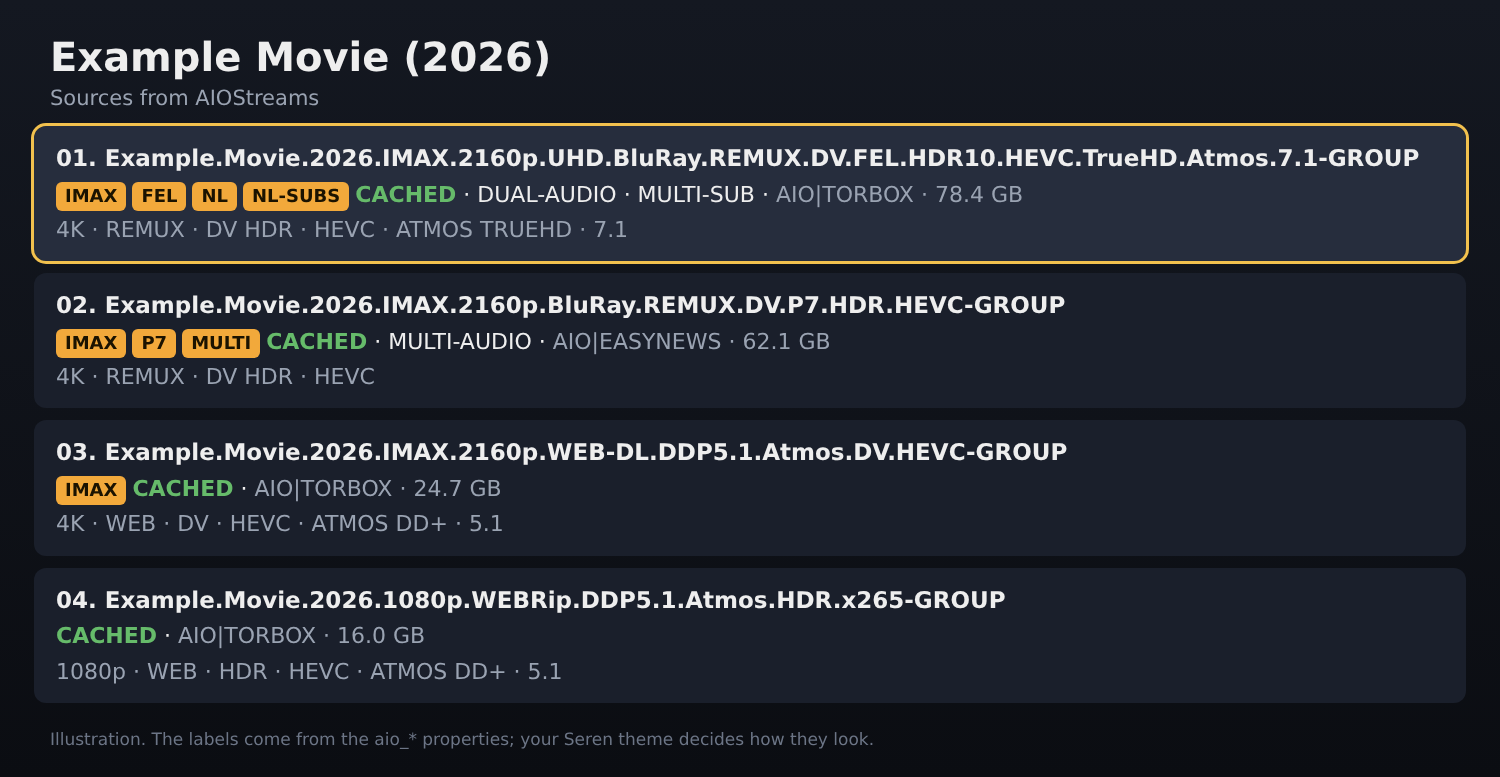
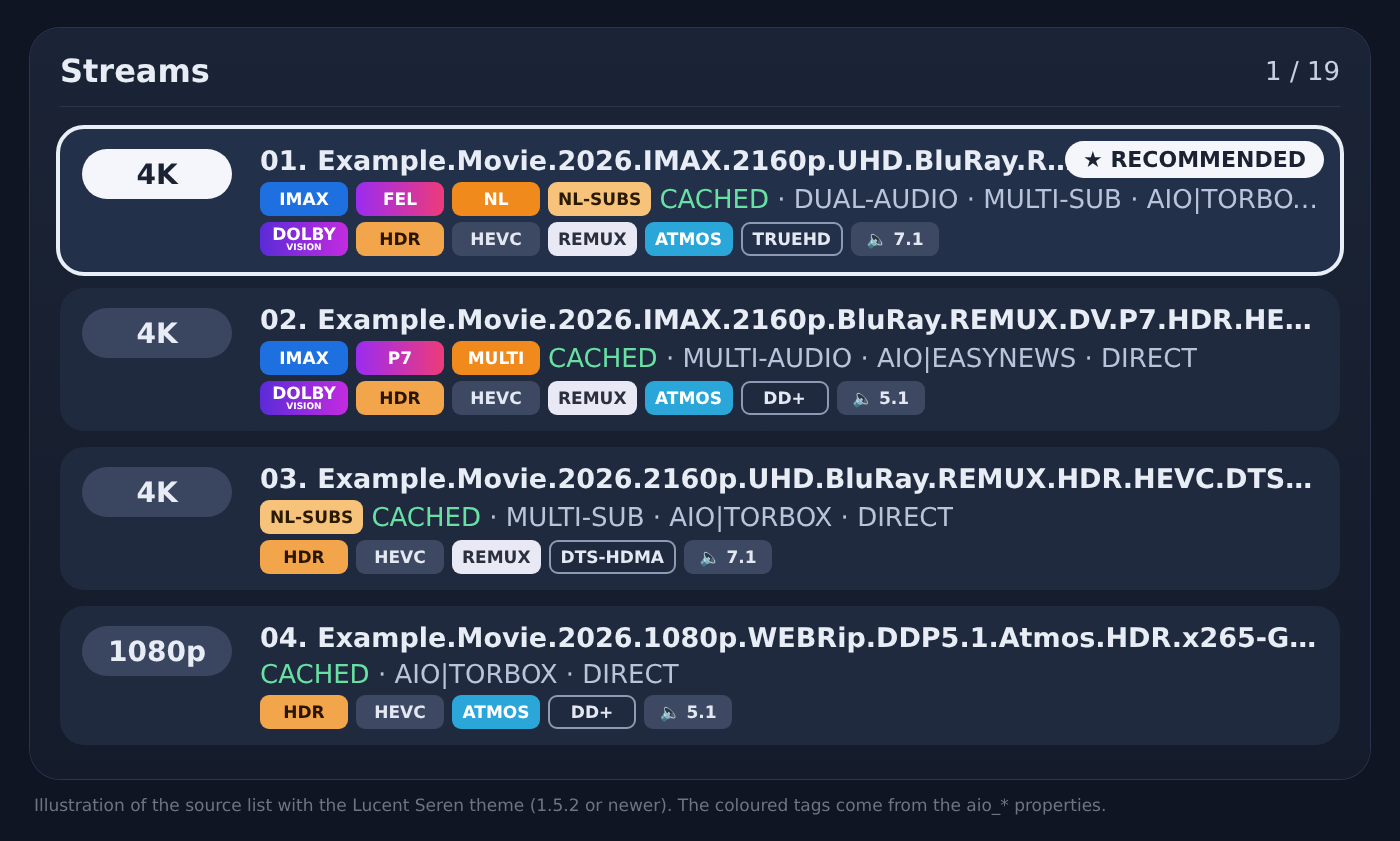
README: source list image now matches the Lucent theme badges
Claude-Session: https://claude.ai/code/session_01PEByCmdKUxM2qwJvQNHPxn

diff --git a/README.md b/README.md
@@ -8,7 +8,7 @@ AIOStreams does the heavy lifting. It searches all your add-ons (Comet, StremThr
 
 ![Source list in Seren with AIOStreams results](assets/sources.png)
 
-*Illustration of the source list: 4K remuxes on top, with `IMAX`, `FEL`, `NL` and `NL-SUBS` labels and `CACHED` status. The exact look depends on your Seren theme.*
+*Illustration of the source list with the [Lucent Seren theme](https://github.com/djdirty60/Seren-Thema) 1.5.2 or newer: 4K remuxes on top, with coloured `IMAX`, `FEL`/`P7`, `NL`/`MULTI` and `NL-SUBS` badges and `CACHED` status. Other themes may show the tags differently.*
 
 ---
 
